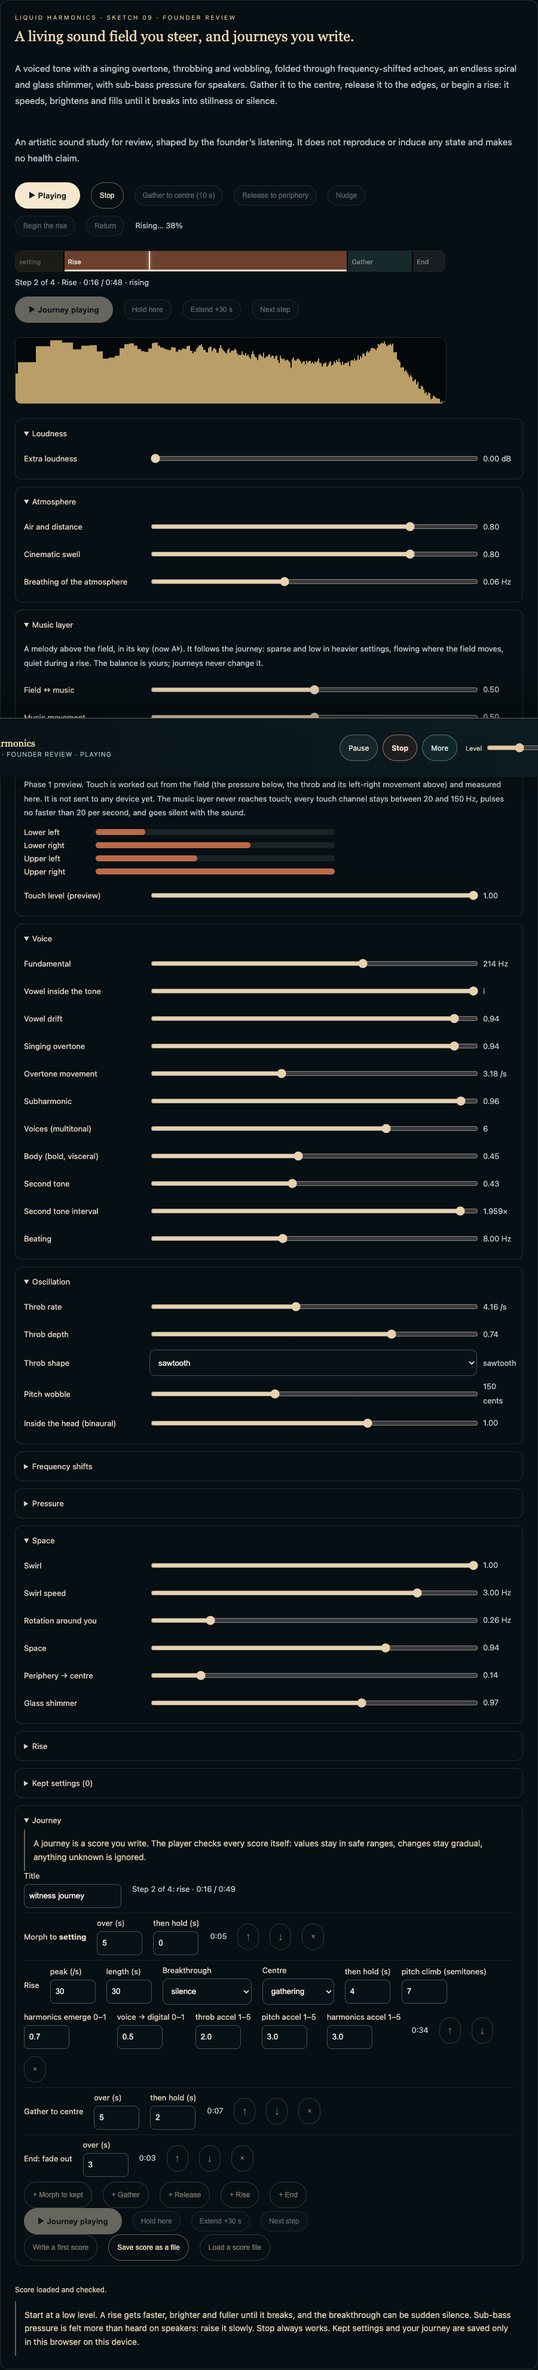
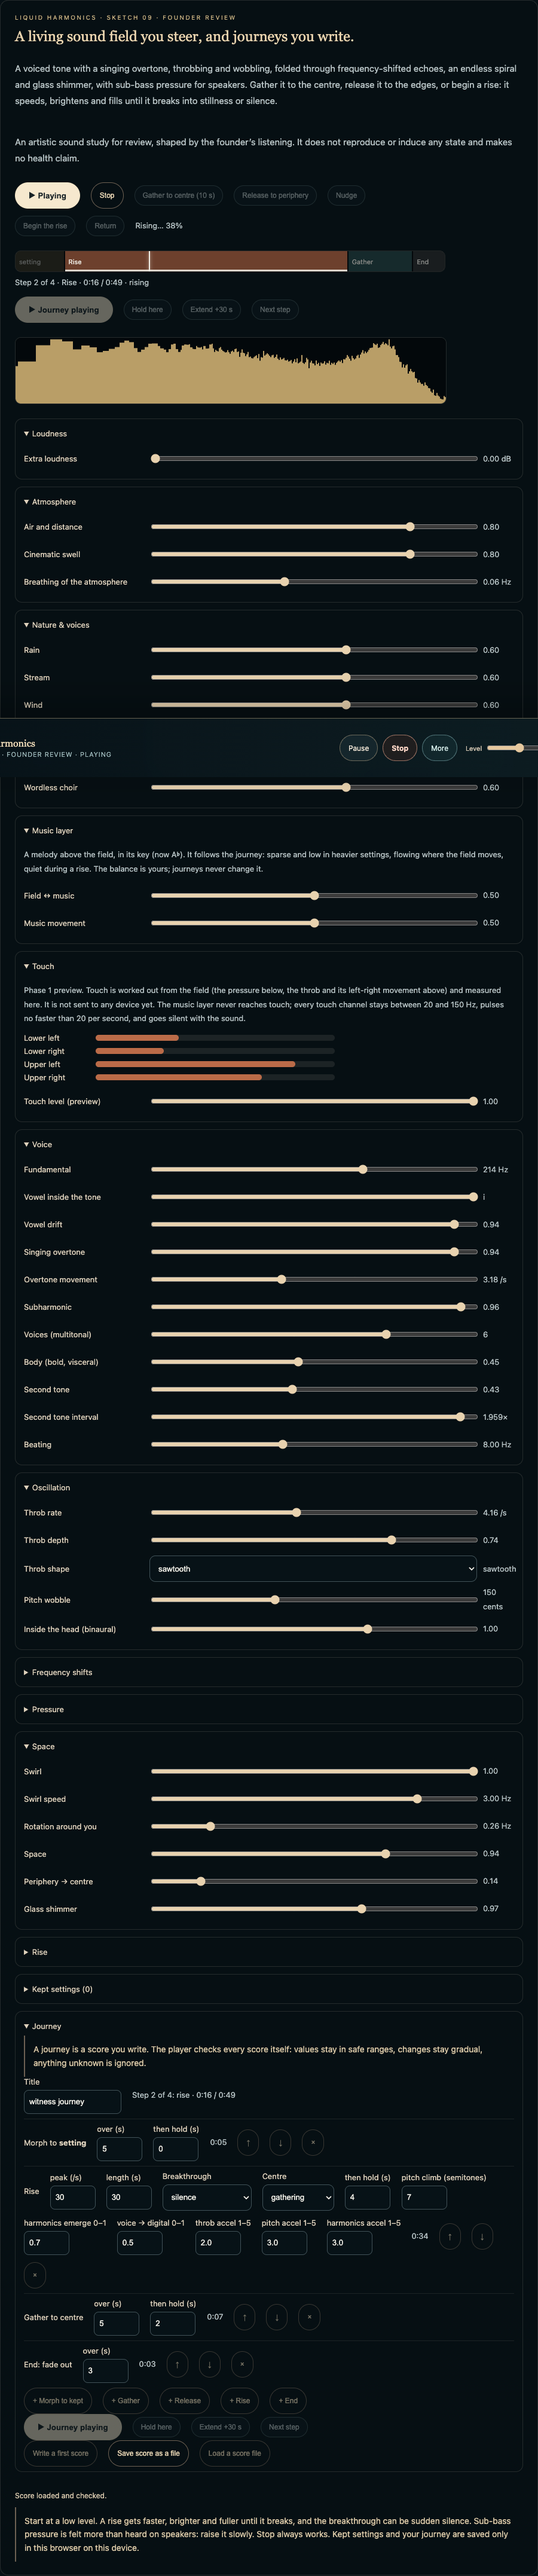
LISTEN-01: shared nature & voices layer, hosted by Liquid Harmonics (review-only)
Founder: 'Yes, build it'; associate with the elemental steps; playful, deep and
mysterious, earthy, airy, watery, fiery, aetheric where each fits.
- lib/listening/natureVoiceLayer.ts: host-agnostic synthesized layer - rain,
  stream, wind, fire, distant invented calls, wordless choir in the field's key.
- Liquid Harmonics hosts it inside the field (journey-shaped; obeys silence,
  fades, end; never touch). Living Library studies on this engine inherit it.
- Unit 12/12, witness 15/15; Living Library catalog 6/6, browser 14/14;
  typecheck gate clean. No recordings, samples or AI voices.
Review branch only: no merge, deploy, flag or member-access change.

diff --git a/lib/listening/natureVoiceLayer.ts b/lib/listening/natureVoiceLayer.ts
@@ -1,0 +1,147 @@
+// LISTEN-01 · Nature & voices layer (review only), 2026-11-22. Founder: "Yes, build it" (a shared layer the Sound
+// departments can weave together). Everything here is synthesized in the browser: no field recordings, no samples,
+// no recorded or AI voices, no imitation of any particular species or singer, and no claim about what it does.
+// The layer is host-agnostic: a host gives it an AudioContext, an output node and (optionally) a hall send, calls
+// `set()` when its parameters change and `tick()` from its own timer. Liquid Harmonics hosts it today; any other
+// department's engine can host it the same way.
+
+export type NatureVoiceParams = {
+  rain: number; stream: number; wind: number; fire: number; birds: number; choir: number;
+  /** The host's fundamental (Hz): the choir sings in its key. */
+  f0: number;
+  /** Three formant centre frequencies for the choir's vowel (from the host's vowel control). */
+  formants: number[];
+};
+export type NatureVoiceLayer = {
+  set: (p: NatureVoiceParams, timeConstant?: number) => void;
+  tick: (t: number) => void;
+  dispose: () => void;
+};
+
+/** The choir's chord: root, fifth, octave, major tenth and twelfth on the host's fundamental, placed at least an
+ * octave above it. Every note is a degree of the major pentatonic on the root, so it sits in key with the field. */
+export function choirChord(f0: number): number[] {
+  let r = Math.max(20, f0); while (r < 110) r *= 2;
+  return [r, r * 1.5, r * 2, r * 2.5, r * 3];
+}
+
+/** Deterministic noise for the layer's buffers. kind 'white' | 'pink' | 'brown'. */
+export function layerNoise(n: number, kind: 'white' | 'pink' | 'brown', seed = 1): Float32Array<ArrayBuffer> {
+  const out = new Float32Array(n); let s = seed >>> 0 || 1, b0 = 0, b1 = 0, b2 = 0, br = 0;
+  for (let i = 0; i < n; i++) {
+    s = (s * 1664525 + 1013904223) >>> 0; const w = s / 4294967296 * 2 - 1;
+    let v = w;
+    if (kind === 'pink') { b0 = 0.99765 * b0 + w * 0.099046; b1 = 0.963 * b1 + w * 0.2965164; b2 = 0.57 * b2 + w * 1.0526913; v = (b0 + b1 + b2 + w * 0.1848) * 0.2; }
+    if (kind === 'brown') { br = (br + 0.02 * w) / 1.02; v = br * 3.5; }
+    out[i] = Math.max(-1, Math.min(1, v));
+  }
+  return out;
+}
+
+const clamp01 = (x: number) => Math.min(1, Math.max(0, Number(x) || 0));
+
+export function createNatureVoiceLayer(ctx: BaseAudioContext, out: AudioNode, hall?: AudioNode): NatureVoiceLayer {
+  const nodes: AudioNode[] = [], srcs: (OscillatorNode | AudioBufferSourceNode)[] = [];
+  const keep = <T extends AudioNode>(n: T): T => (nodes.push(n), n);
+  const gain = (v = 1) => { const g = keep(ctx.createGain()); g.gain.value = v; return g; };
+  const filt = (type: BiquadFilterType, f: number, q = 0.7) => { const b = keep(ctx.createBiquadFilter()); b.type = type; b.frequency.value = f; b.Q.value = q; return b; };
+  const osc = (f: number, type: OscillatorType = 'sine') => { const o = keep(ctx.createOscillator()); o.type = type; o.frequency.value = f; srcs.push(o); return o; };
+  const sr = ctx.sampleRate;
+  const loop = (kind: 'white' | 'pink' | 'brown', seed: number) => {
+    const b = ctx.createBuffer(2, Math.floor(sr * 6), sr); b.copyToChannel(layerNoise(b.length, kind, seed), 0); b.copyToChannel(layerNoise(b.length, kind, seed + 101), 1);
+    const s = keep(ctx.createBufferSource()); s.buffer = b; s.loop = true; srcs.push(s); return s;
+  };
+  const bus = gain(1); bus.connect(out);
+  const send = gain(1); bus.connect(send); if (hall) send.connect(hall);
+  const P: NatureVoiceParams = { rain: 0, stream: 0, wind: 0, fire: 0, birds: 0, choir: 0, f0: 110, formants: [500, 1500, 2500] };
+
+  // Rain: a soft hiss plus individual droplets scheduled in tick().
+  const rainG = gain(0), rainHiss = loop('white', 3), rainHp = filt('highpass', 900), rainLp = filt('lowpass', 7000), rainHissG = gain(0.07);
+  rainHiss.connect(rainHp); rainHp.connect(rainLp); rainLp.connect(rainHissG); rainHissG.connect(rainG); rainG.connect(bus);
+  // Stream: brown noise through two bands whose centres jitter quickly (babbling).
+  const streamG = gain(0), streamSrc = loop('brown', 5);
+  const streamBands = [430, 780].map(f => { const b = filt('bandpass', f, 4); streamSrc.connect(b); const g = gain(0.9); b.connect(g); g.connect(streamG); return { b, f }; });
+  const streamLp = filt('lowpass', 2400); streamG.connect(streamLp); const streamOut = gain(1); streamLp.connect(streamOut); streamOut.connect(bus);
+  // Wind: pink noise through a resonant band that gusts and sweeps slowly.
+  const windG = gain(0), windSrc = loop('pink', 9), windBp = filt('bandpass', 420, 3), windGust = gain(0.55);
+  const gustLfo = osc(0.09), gustD = gain(0.4), sweepLfo = osc(0.047), sweepD = gain(220);
+  gustLfo.connect(gustD); gustD.connect(windGust.gain); sweepLfo.connect(sweepD); sweepD.connect(windBp.frequency);
+  windSrc.connect(windBp); windBp.connect(windGust); windGust.connect(windG); windG.connect(bus);
+  // Fire: a low roar plus crackles scheduled in tick().
+  const fireG = gain(0), roarSrc = loop('brown', 13), roarLp = filt('lowpass', 260), roarG = gain(0.5);
+  roarSrc.connect(roarLp); roarLp.connect(roarG); roarG.connect(fireG); fireG.connect(bus);
+  // Birds: sparse, distant invented calls (fast sine glides), scheduled in tick(); mostly sent to the hall.
+  const birdG = gain(0), birdLp = filt('lowpass', 6000); birdG.connect(birdLp); birdLp.connect(bus);
+  // Choir: five wordless voices on the host's key, each with three formant bands, slow vibrato and ensemble detune.
+  const choirG = gain(0), choirSum = gain(1), choirForm = [0, 1, 2].map(j => { const b = filt('bandpass', 500, 7), g = gain([1, 0.55, 0.3][j]); choirSum.connect(b); b.connect(g); g.connect(choirG); return b; });
+  const choirBreath = osc(0.05), choirBreathD = gain(0.25), choirLevel = gain(0.75); choirBreath.connect(choirBreathD); choirBreathD.connect(choirLevel.gain);
+  choirG.connect(choirLevel); choirLevel.connect(bus);
+  const voices = choirChord(P.f0).map((f, i) => {
+    const o = osc(f, 'sawtooth'), g = gain(i === 0 ? 0.16 : 0.11), v = osc(4.6 + i * 0.37), vd = gain(9);
+    o.detune.value = (i - 2) * 5; v.connect(vd); vd.connect(o.detune); o.connect(g); g.connect(choirSum); return o;
+  });
+
+  // One-shot events (droplets, crackles, calls): short-lived nodes into their own buses.
+  const ping = (dest: AudioNode, when: number, f0: number, f1: number, dur: number, vel: number, pan: number, type: OscillatorType = 'sine') => {
+    const o = ctx.createOscillator(), g = ctx.createGain(), p = ctx.createStereoPanner();
+    o.type = type; o.frequency.setValueAtTime(f0, when); o.frequency.exponentialRampToValueAtTime(Math.max(20, f1), when + dur * 0.8);
+    g.gain.setValueAtTime(0, when); g.gain.linearRampToValueAtTime(vel, when + Math.min(0.01, dur / 4)); g.gain.exponentialRampToValueAtTime(0.0001, when + dur);
+    p.pan.value = pan; o.connect(g); g.connect(p); p.connect(dest); o.start(when); o.stop(when + dur + 0.02);
+    o.onended = () => { try { p.disconnect(); } catch { /* gone */ } };
+  };
+  const crackleBuf = ctx.createBuffer(1, Math.floor(sr * 0.012), sr); crackleBuf.copyToChannel(layerNoise(crackleBuf.length, 'white', 17), 0);
+  const crackle = (when: number, vel: number, pan: number) => {
+    const s = ctx.createBufferSource(), f = ctx.createBiquadFilter(), g = ctx.createGain(), p = ctx.createStereoPanner();
+    s.buffer = crackleBuf; f.type = 'bandpass'; f.frequency.value = 1800 + Math.random() * 3500; f.Q.value = 1.5;
+    g.gain.setValueAtTime(vel, when); g.gain.exponentialRampToValueAtTime(0.0001, when + 0.012); p.pan.value = pan;
+    s.connect(f); f.connect(g); g.connect(p); p.connect(fireG); s.start(when); s.onended = () => { try { p.disconnect(); } catch { /* gone */ } };
+  };
+  let nextDrop = 0, nextCrackle = 0, nextCall = 0, nextJitter = 0;
+  const rnd = (a: number, b: number) => a + Math.random() * (b - a);
+  srcs.forEach(s => s.start()); // silent until set() raises them
+
+  return {
+    set: (p, k = 0.4) => {
+      Object.assign(P, p);
+      const t = ctx.currentTime, set = (a: AudioParam, v: number) => a.setTargetAtTime(v, t, k);
+      set(rainG.gain, clamp01(P.rain) * 1.0); set(streamG.gain, clamp01(P.stream) * 0.9); set(windG.gain, clamp01(P.wind) * 0.8);
+      set(fireG.gain, clamp01(P.fire) * 0.9); set(birdG.gain, clamp01(P.birds)); set(choirG.gain, clamp01(P.choir) * 0.55);
+      choirChord(P.f0).forEach((f, i) => set(voices[i].frequency, f));
+      choirForm.forEach((b, j) => set(b.frequency, P.formants[j] ?? 500));
+    },
+    tick: (t) => {
+      // Droplets: density follows the rain level; bright, short, scattered.
+      if (P.rain > 0.01) {
+        if (nextDrop < t) nextDrop = t + 0.05;
+        while (nextDrop < t + 0.25) { ping(rainG, nextDrop, rnd(2200, 5200), rnd(900, 2000), rnd(0.02, 0.06), rnd(0.03, 0.09), rnd(-0.9, 0.9)); nextDrop += rnd(0.3, 1.2) / (1 + 14 * P.rain); }
+      }
+      // Stream babble: re-centre the two bands every 60–140 ms.
+      if (P.stream > 0.01 && t >= nextJitter) {
+        nextJitter = t + rnd(0.06, 0.14);
+        streamBands.forEach(({ b, f }) => b.frequency.setTargetAtTime(f * rnd(0.7, 1.45), t, 0.03));
+      }
+      // Crackles: irregular, sometimes in small bursts.
+      if (P.fire > 0.01) {
+        if (nextCrackle < t) nextCrackle = t + 0.05;
+        while (nextCrackle < t + 0.25) {
+          const burst = Math.random() < 0.2 ? 3 : 1;
+          for (let i = 0; i < burst; i++) crackle(nextCrackle + i * rnd(0.01, 0.04), rnd(0.15, 0.6), rnd(-0.6, 0.6));
+          nextCrackle += rnd(0.08, 0.9) / (0.4 + 2.5 * P.fire);
+        }
+      }
+      // Distant calls: short phrases of 2–4 glides, well apart.
+      if (P.birds > 0.01) {
+        if (nextCall < t) nextCall = t + rnd(1, 3);
+        if (nextCall < t + 0.25) {
+          const n = 2 + Math.floor(Math.random() * 3), base = rnd(2200, 4200), pan = rnd(-0.85, 0.85);
+          for (let i = 0; i < n; i++) ping(birdG, nextCall + i * rnd(0.09, 0.16), base * rnd(0.9, 1.25), base * rnd(0.7, 1.4), rnd(0.07, 0.14), rnd(0.03, 0.06), pan);
+          nextCall += rnd(2.5, 9) / (0.5 + P.birds);
+        }
+      }
+    },
+    dispose: () => {
+      for (const s of srcs) { try { s.stop(); } catch { /* not started or stopped */ } }
+      for (const n of nodes) { try { n.disconnect(); } catch { /* gone */ } }
+    },
+  };
+}

diff --git a/lib/listening/liquidHarmonics.ts b/lib/listening/liquidHarmonics.ts
@@ -7,10 +7,11 @@
 // is what plays here. No state, effect or health outcome is claimed, and no AI composes anything: a journey is a
 // score the listener writes, and every score is checked here, whoever wrote it.
 
+import { createNatureVoiceLayer } from './natureVoiceLayer';
 import type { ProceduralStudy, ProceduralStudyAPI, ProceduralStudyHandle } from './proceduralStudy';
 
 // ── Controls ──────────────────────────────────────────────────────────────────────────────────────────
-export type Group = 'Voice' | 'Oscillation' | 'Frequency shifts' | 'Rise' | 'Pressure' | 'Space' | 'Atmosphere' | 'Music' | 'Touch' | 'Loudness';
+export type Group = 'Voice' | 'Oscillation' | 'Frequency shifts' | 'Rise' | 'Pressure' | 'Space' | 'Atmosphere' | 'Nature & voices' | 'Music' | 'Touch' | 'Loudness';
 export type Control = {
   g: Group; k: string; label: string; v: number | string;
   min?: number; max?: number; step?: number; log?: boolean; unit?: string; hint?: string;
@@ -58,6 +59,12 @@ export const CONTROLS: readonly Control[] = Object.freeze([
   { g: 'Space', k: 'verb', label: 'Space', min: 0, max: 1.3, v: 0.94 },
   { g: 'Space', k: 'center', label: 'Periphery → centre', min: 0, max: 1, v: 0.34, hint: '0: all around you. 1: gathered to one point. Or use Gather / Release.' },
   { g: 'Loudness', k: 'boost', label: 'Extra loudness', min: 0, max: 9, v: 0, step: 0.5, unit: 'dB', hint: 'Raises the whole study above the player’s Level, for when the top of the Level is not loud enough. A ceiling keeps it from distorting. Raise it slowly; journeys never change it.' },
+  { g: 'Nature & voices', k: 'rain', label: 'Rain', min: 0, max: 1, v: 0, hint: 'Synthesized: a soft hiss and scattered droplets. No recording.' },
+  { g: 'Nature & voices', k: 'stream', label: 'Stream', min: 0, max: 1, v: 0, hint: 'Synthesized babbling water. No recording.' },
+  { g: 'Nature & voices', k: 'wind', label: 'Wind', min: 0, max: 1, v: 0, hint: 'Synthesized gusting wind with a slow sweep.' },
+  { g: 'Nature & voices', k: 'fire', label: 'Fire', min: 0, max: 1, v: 0, hint: 'Synthesized low roar and crackle.' },
+  { g: 'Nature & voices', k: 'birds', label: 'Distant calls', min: 0, max: 1, v: 0, hint: 'Invented bird-like calls far away. Not any particular species; no recording.' },
+  { g: 'Nature & voices', k: 'choir', label: 'Wordless choir', min: 0, max: 1, v: 0, hint: 'Five synthesized voices singing the field’s vowel, in its key. No recorded or AI voice.' },
   { g: 'Atmosphere', k: 'air', label: 'Air and distance', min: 0, max: 1, v: 0, hint: 'A soft, slowly moving wash of air far around you, like wind or distant surf.' },
   { g: 'Atmosphere', k: 'swell', label: 'Cinematic swell', min: 0, max: 1, v: 0, hint: 'A warm low chord on the field’s own tone that slowly opens and breathes.' },
   { g: 'Atmosphere', k: 'breath', label: 'Breathing of the atmosphere', min: 0.02, max: 0.3, v: 0.06, log: true, unit: 'Hz', hint: 'How slowly the air and the swell rise and fall (0.06 Hz is about one swell every 17 seconds).' },
@@ -405,6 +412,10 @@ export function createLiquidEngine(ctx: AudioContext, destination: AudioNode, pa
   const mDl = keep(ctx.createDelay(1)); mDl.delayTime.value = 0.37; const mFb = gain(0.32), mLp = biquad('lowpass', 2600), mEcho = gain(0.35);
   musicIn.connect(mDl); mDl.connect(mLp); mLp.connect(mFb); mFb.connect(mDl); mLp.connect(mEcho); mEcho.connect(musicDuck);
   const mCv = keep(ctx.createConvolver()); mCv.buffer = ir; const mVerb = gain(0.45); musicIn.connect(mVerb); mVerb.connect(mCv); mCv.connect(musicDuck);
+  // ── Nature & voices: the shared layer (lib/listening/natureVoiceLayer.ts), hosted here as part of the field. It goes
+  // through the field bus and presence (silence, fades, end) and the hall; it has no path to touch.
+  const natureBus = gain(1); natureBus.connect(fieldBus);
+  const nature = createNatureVoiceLayer(ctx, natureBus, cv);
   // ── Atmosphere: part of the field (journeys can shape it), never part of touch. It sits outside the throb, so it
   // stays still and wide while the voice pulses; most of it goes to the hall for distance.
   const nb = ctx.createBuffer(2, Math.floor(sr * 8), sr); nb.copyToChannel(pinkNoise(nb.length, 7), 0); nb.copyToChannel(pinkNoise(nb.length, 11), 1);
@@ -441,6 +452,7 @@ export function createLiquidEngine(ctx: AudioContext, destination: AudioNode, pa
     set(drive.gain, 1 + num('body') * 5); set(driveOut.gain, 1 / (1 + num('body') * 1.6));
     set(binL.frequency, F * 2); set(binR.frequency, F * 2 + Math.min(45, rate)); set(binG.gain, num('binaural') * 0.12 * (0.6 + 0.4 * center));
     set(spG.gain, num('spiral'));
+    nature.set({ rain: num('rain'), stream: num('stream'), wind: num('wind'), fire: num('fire'), birds: num('birds'), choir: num('choir'), f0: F, formants: vowelAt(num('vowel')) }, now ? 0.01 : 0.4);
     const air = num('air'), sw = num('swell'), br = num('breath');
     set(airG.gain, air * 0.55); set(airVerb.gain, air * 0.9); set(breath.frequency, br);
     airBands.forEach((b, ch) => set(b.sweep.frequency, br * (ch ? 0.83 : 1.21)));
@@ -562,6 +574,7 @@ export function createLiquidEngine(ctx: AudioContext, destination: AudioNode, pa
     }
     stepTween(t);
     musicTick(t);
+    if (!silenced) nature.tick(t);
     if (J && !J.held && J.waitUntil !== null && t >= J.waitUntil) {
       J.waitUntil = null;
       if (J.next === 'stop') { J = null; phase = 'free'; note = 'Journey complete.'; api.ended('Liquid Harmonics: journey complete.'); return; }
@@ -666,6 +679,7 @@ export function createLiquidEngine(ctx: AudioContext, destination: AudioNode, pa
       disposed = true; clearInterval(interval); J = null; tween = null;
       for (const o of [...srcs, airSrc]) { try { o.stop(); } catch { /* already stopped */ } }
       try { airSrc.disconnect(); } catch { /* gone */ }
+      nature.dispose();
       for (const n of nodes) { try { n.disconnect(); } catch { /* gone */ } }
     },
   };

diff --git a/app/listen/LiquidHarmonicsDesk.tsx b/app/listen/LiquidHarmonicsDesk.tsx
@@ -22,7 +22,7 @@ const store = (k: string, v: unknown) => { try { localStorage.setItem(k, JSON.st
 // The engine keeps running in the player when the member moves to another view, so the desk re-attaches to it.
 const shared: { engine: LiquidEngine | null; params: Params; loaded: boolean } = { engine: null, params: { ...DEFAULT_PARAMS }, loaded: false };
 
-const GROUPS = ['Loudness', 'Atmosphere', 'Music', 'Touch', 'Voice', 'Oscillation', 'Frequency shifts', 'Pressure', 'Space', 'Rise'] as const;
+const GROUPS = ['Loudness', 'Atmosphere', 'Nature & voices', 'Music', 'Touch', 'Voice', 'Oscillation', 'Frequency shifts', 'Pressure', 'Space', 'Rise'] as const;
 const mmss = (x: number) => `${Math.floor(x / 60)}:${String(Math.floor(x % 60)).padStart(2, '0')}`;
 const stepLabel = (st: Step) => st.type === 'morph' ? st.name : st.type === 'end' ? 'End' : st.type[0].toUpperCase() + st.type.slice(1);
 
@@ -254,7 +254,7 @@ export default function LiquidHarmonicsDesk() {
       <canvas ref={canvas} width={720} height={110} className={styles.liquidSpectrum} aria-label="Spectrum of the sound, low to high" />
 
       {GROUPS.map(g => (
-        <details className={styles.orbitDetails} key={g} open={g === 'Voice' || g === 'Music' || g === 'Atmosphere' || g === 'Loudness'} data-liquid-group={g}>
+        <details className={styles.orbitDetails} key={g} open={g === 'Voice' || g === 'Music' || g === 'Atmosphere' || g === 'Loudness' || g === 'Nature & voices'} data-liquid-group={g}>
           <summary>{g === 'Music' ? 'Music layer' : g}</summary>
           {g === 'Touch' && <>
             <p className={styles.muted} data-liquid-touch-note="true">

diff --git a/docs/design/contracts/sound-studio-liquid-harmonics.md b/docs/design/contracts/sound-studio-liquid-harmonics.md
@@ -68,6 +68,15 @@ experience_verification: >
     the boost.
   - The ceiling also removes the earlier overshoot at no boost: the compressor's make-up had let peaks reach about
     +0.6 dBFS after the trim.
+  2026-11-22 nature & voices (founder: "Yes, build it"; "we could associate them with the elemental steps"; "playful
+  where playfulness is appropriate, deeper and mysterious where it is needed, earthy … airy, watery, firey, atheric"):
+  - Witness 15/15: all six controls act on the running engine; with all six at 0.6 the silence breakthrough still
+    measures energy 0.
+  - Unit tests 12/12: the choir is in the field's key (major pentatonic, root above it); noise is bounded and
+    deterministic; journeys may shape the layer within range; the layer feeds the field bus and never touch; the
+    layer file contains no recording, decode or network call.
+  - Living Library's own checks still pass (catalog 6/6, browser 14/14).
+  - Loudness under the Spiral's Arrival field (−19.5 dB RMS): each layer at 0.8 adds about 3–4 dB. Felt effect not witnessed.
 ---
 
 # Sound Studio / Liquid Harmonics — Experience Contract
@@ -113,6 +122,24 @@ Because the atmosphere is part of the field:
 - it never reaches touch.
 
 It is inspired by long-form atmospheric listening, but borrows no recordings, scripts, level names or methods from any existing program, and makes no claim.
+
+## Nature & voices
+
+A shared, fully synthesized layer, `lib/listening/natureVoiceLayer.ts`. Any Sound department's engine can host it; Liquid Harmonics hosts it today, so every Living Library study that runs on this engine can use it too. It has six parts:
+- **Rain:** a hiss plus scattered droplets.
+- **Stream:** babbling bands of brown noise.
+- **Wind:** a gusting, sweeping resonant band.
+- **Fire:** a low roar and irregular crackle.
+- **Distant calls:** invented glides, not any species.
+- **Wordless choir:** five sawtooth voices through the field's own vowel formants, with vibrato and ensemble detune, singing a pentatonic chord on the field's fundamental.
+
+Because the layer is part of the field:
+- journeys shape it per movement;
+- it falls silent with a silence breakthrough;
+- it fades with the end;
+- it never reaches touch.
+
+There are no recordings, samples, recorded or AI voices, and no claim. Real nature recordings or other people's voices would need rights and consent admission first.
 
 ## Music layer
 
